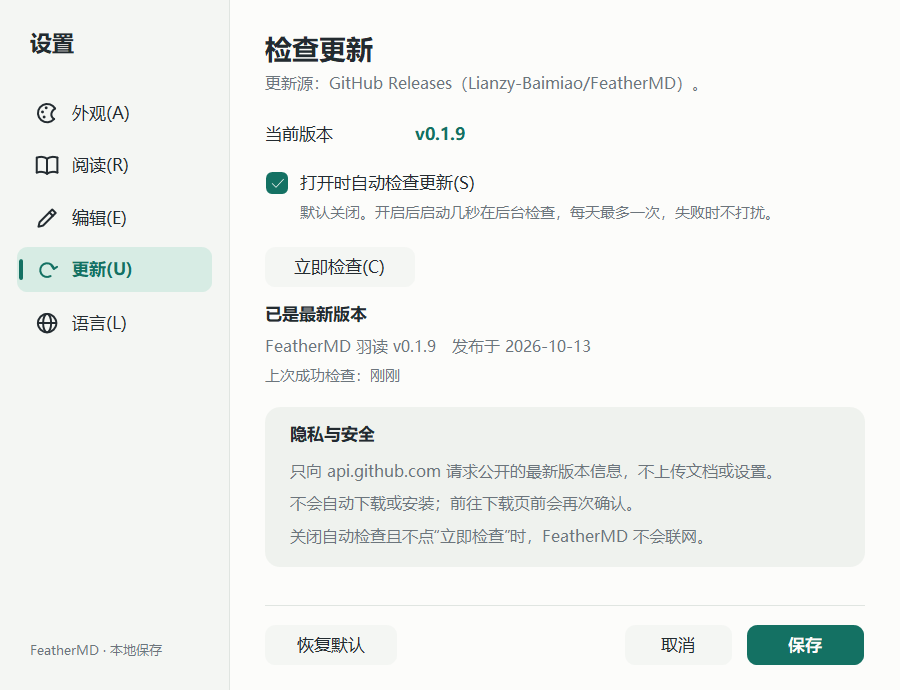
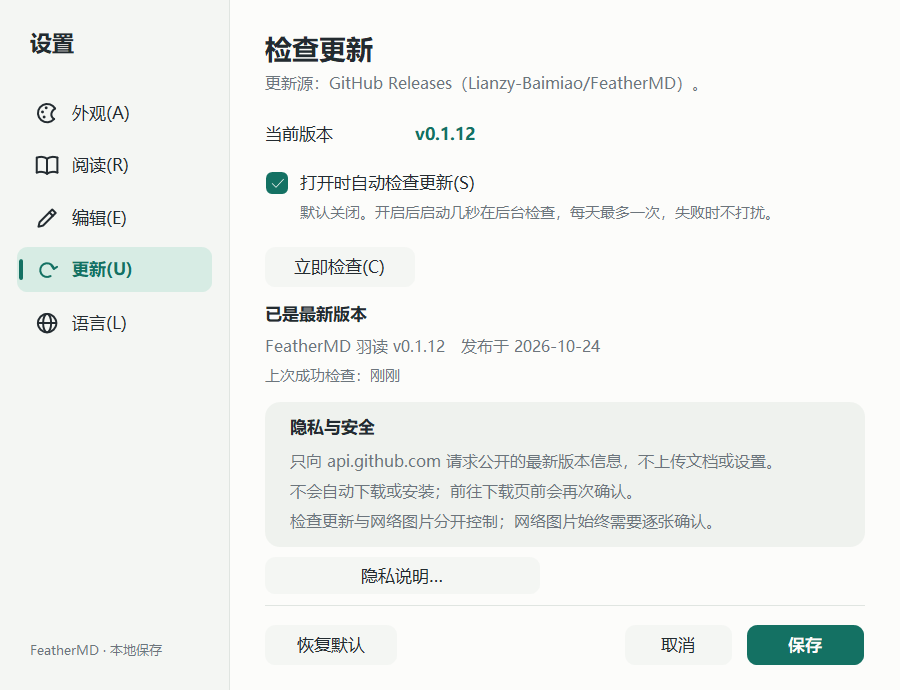
fix: v0.1.12 space the privacy notice button on the Updates page
Settings -> Updates had the "Privacy notice..." button touching the privacy
card above it and the rule above the footer, in every language and in the
Store edition (also live as Store 1.0.10.0). Both editions now build the card
from one list of notes, size it to its lines and keep 8 px around the button;
the Store card no longer leaves a gap between its two notes. A unit test keeps
the card under the last-check line and the button clear of card and rule.

Version 0.1.12, Store package 1.0.12.0 (1.0.11.0 was validated but never
uploaded). About and Updates screenshots are recaptured from this build.

diff --git a/src/ui/preferences.rs b/src/ui/preferences.rs
@@ -55,6 +55,34 @@ const HEIGHT: i32 = 552;
 const NAV_WIDTH: i32 = 184;
 /// Content column origin.
 const X0: i32 = 212;
+/// The rule above the footer buttons.
+const FOOTER_RULE: i32 = 484;
+/// Updates page: the privacy card starts here, below the last-check line (which ends
+/// at 312), and the privacy notice button follows it with this gap above (and at
+/// least as much below, before the footer rule).
+const PRIVACY_TOP: i32 = 322;
+const PRIVACY_GAP: i32 = 8;
+/// Top and height of the privacy card holding a title and `lines` notes: 10 px
+/// padding, a 24 px title, 22 px notes 24 px apart from 4 px below it, 8 px below
+/// the last.
+const fn privacy_card(lines: i32) -> (i32, i32) {
+    (PRIVACY_TOP, 10 + 24 + 4 + (lines - 1) * 24 + 22 + 8)
+}
+/// The notes in this edition's privacy card on the Updates page.
+fn privacy_notes() -> Vec<&'static str> {
+    if distribution::store() {
+        vec![
+            tr("不会检查 GitHub 版本，也不会下载绿色版替换此安装。"),
+            tr("网络图片仍需逐张确认；不会上传文档或设置。"),
+        ]
+    } else {
+        vec![
+            tr("只向 api.github.com 请求公开的最新版本信息，不上传文档或设置。"),
+            tr("不会自动下载或安装；前往下载页前会再次确认。"),
+            tr("检查更新与网络图片分开控制；网络图片始终需要逐张确认。"),
+        ]
+    }
+}
 const PAGES: [(&str, usize); 5] = [
     (key!("外观(&A)"), smooth::PALETTE),
     (key!("阅读(&R)"), smooth::BOOK),
@@ -458,24 +486,6 @@ impl Prefs {
                 (page, [X0, 200, 480, 22]),
                 NOTE,
             );
-            self.label(
-                tr("隐私与安全"),
-                1245,
-                (page, [X0 + 20, 338, 440, 24]),
-                Look(14, true, Tone::Info),
-            );
-            self.label(
-                tr("不会检查 GitHub 版本，也不会下载绿色版替换此安装。"),
-                1246,
-                (page, [X0 + 20, 368, 440, 40]),
-                Look(13, false, Tone::InfoMuted),
-            );
-            self.label(
-                tr("网络图片仍需逐张确认；不会上传文档或设置。"),
-                1247,
-                (page, [X0 + 20, 410, 440, 40]),
-                Look(13, false, Tone::InfoMuted),
-            );
         } else {
             // Updates.
             let page = Some(3);
@@ -537,29 +547,30 @@ impl Prefs {
                 (page, [X0, 292, 480, 20]),
                 Look(12, false, Tone::Muted),
             );
-            self.label(
-                tr("隐私与安全"),
-                1245,
-                (page, [X0 + 20, 338, 440, 24]),
-                Look(14, true, Tone::Info),
-            );
-            for (i, text) in [
-                tr("只向 api.github.com 请求公开的最新版本信息，不上传文档或设置。"),
-                tr("不会自动下载或安装；前往下载页前会再次确认。"),
-                tr("检查更新与网络图片分开控制；网络图片始终需要逐张确认。"),
-            ]
-            .into_iter()
-            .enumerate()
-            {
-                self.label(
-                    text,
-                    1246 + i,
-                    (page, [X0 + 20, 368 + i as i32 * 26, 440, 22]),
-                    Look(13, false, Tone::InfoMuted),
-                );
-            }
         }
-        self.button(tr("隐私说明…"), PRIVACY, (Some(3), [X0, 454, 220, 30]));
+        // Both editions: the privacy card, then the full notice below it.
+        let page = Some(3);
+        let notes = privacy_notes();
+        let (top, height) = privacy_card(notes.len() as i32);
+        self.label(
+            tr("隐私与安全"),
+            1245,
+            (page, [X0 + 20, top + 10, 440, 24]),
+            Look(14, true, Tone::Info),
+        );
+        for (i, text) in notes.into_iter().enumerate() {
+            self.label(
+                text,
+                1246 + i,
+                (page, [X0 + 20, top + 38 + i as i32 * 24, 440, 22]),
+                Look(13, false, Tone::InfoMuted),
+            );
+        }
+        self.button(
+            tr("隐私说明…"),
+            PRIVACY,
+            (page, [X0, top + height + PRIVACY_GAP, 220, 30]),
+        );
 
         // Interface language.
         let page = Some(4);
@@ -1076,7 +1087,7 @@ impl Prefs {
             },
             p.edge,
         );
-        Self::fill(dc, &self.rect(X0, 484, WIDTH - X0 - 28, 1), p.edge);
+        Self::fill(dc, &self.rect(X0, FOOTER_RULE, WIDTH - X0 - 28, 1), p.edge);
         match self.page {
             1 => {
                 chrome::chrome_round(dc, self.rect(X0, 196, 480, 100), p.panel, self.s(14));
@@ -1106,7 +1117,10 @@ impl Prefs {
                 }
             }
             2 => chrome::chrome_round(dc, self.rect(X0, 222, 480, 140), p.code, self.s(12)),
-            3 => chrome::chrome_round(dc, self.rect(X0, 326, 480, 128), p.code, self.s(12)),
+            3 => {
+                let (top, height) = privacy_card(privacy_notes().len() as i32);
+                chrome::chrome_round(dc, self.rect(X0, top, 480, height), p.code, self.s(12));
+            }
             4 => chrome::chrome_round(dc, self.rect(X0, 182, 480, 132), p.code, self.s(12)),
             _ => {}
         }
@@ -2156,5 +2170,27 @@ mod tests {
         }
         assert_eq!(std::mem::offset_of!(EmptyDialog, menu), 18);
         assert_eq!(PAGES.len(), NAV.len());
+    }
+    #[test]
+    fn privacy_notice_button_clears_its_card_and_the_footer_rule() {
+        // Store edition: two notes; portable: three. v0.1.11 had the button touch
+        // both the card and the rule.
+        for lines in [2, 3] {
+            let (top, height) = privacy_card(lines);
+            assert!(
+                top >= 312 + PRIVACY_GAP,
+                "{lines} notes: card under the last-check line"
+            );
+            let last_note = top + 38 + (lines - 1) * 24 + 22;
+            assert!(
+                last_note <= top + height,
+                "{lines} notes: text inside the card"
+            );
+            let button = top + height + PRIVACY_GAP;
+            assert!(
+                button + 30 + PRIVACY_GAP <= FOOTER_RULE,
+                "{lines} notes: button above the rule"
+            );
+        }
     }
 }

diff --git a/docs/STORE-RELEASE.md b/docs/STORE-RELEASE.md
@@ -5,8 +5,11 @@ MSIX) passed certification and is published. The public display catalog lists
 `ice.FeatherMD_1.0.10.0_x64__rz8m2sa64m4em`, free, publisher 白描ice, released
 2026-10-20 02:58 UTC; the Store page answers HTTP 200. The publication step itself
 was not recorded by this tooling; the catalog is the evidence. The next package is
-**1.0.11.0** (Cargo 0.1.11: table cells select by character), built and validated
-by the disposable workflows below and uploaded as a new submission. Never reuse an
+**1.0.12.0** (Cargo 0.1.12: table cells select by character from 0.1.11, and the
+Updates-page privacy button no longer touching the card and footer rule), built and
+validated by the disposable workflows below and uploaded as a new submission. A
+1.0.11.0 candidate passed WACK (run 40044912773) and lifecycle (run 40044915701) but
+was never uploaded, because the button layout defect was found first. Never reuse an
 uploaded version. Do not reuse LiteView's identity or ratings. See PROGRESS.md for
 exact evidence and limitations.
 
@@ -65,8 +68,8 @@ The packer verifies syntax and the explicit attestation, **not the account itsel
 The Store signs accepted packages for distribution. GitHub portable EXEs remain
 unsigned unless separately signed with a trusted code-signing service/certificate.
 
-MSIX versions: 1.0.10.0 was the first upload (Cargo 0.1.10); 1.0.11.0 carries
-Cargo 0.1.11. Increment the third component for each new candidate/upload,
+MSIX versions: 1.0.10.0 was the first upload (Cargo 0.1.10); 1.0.12.0 carries
+Cargo 0.1.12 (1.0.11.0 was built but never uploaded). Increment the third component for each new candidate/upload,
 independent of Cargo's version: a replacement candidate for the same Cargo version
 still takes the next number. Components are <=65535, the first is nonzero and the
 fourth stays 0. Never overwrite/reuse an uploaded version.
@@ -164,7 +167,7 @@ runs 39045802702 and 39045655691. They explicitly do not claim completed Windows
 
 ## Remaining release gates
 
-- 1.0.10.0 passed certification and is live. For 1.0.11.0, upload the frozen
+- 1.0.10.0 passed certification and is live. For 1.0.12.0, upload the frozen
   candidate as a new submission and update "What's new"; keep the listing, pricing,
   markets and age rating unless the owner asks otherwise. Confirm the publication
   timing with the owner when the submission is made. If certification rejects it,
@@ -178,7 +181,7 @@ runs 39045802702 and 39045655691. They explicitly do not claim completed Windows
 - Verify final Store listing, age rating, target markets and delivered package
   after approval/publication. Submission evidence is in
   `test-artifacts/feathermd-submitted-20261018.txt` and the matching `.jpg`.
-- Policies were rechecked on 2026-10-24 for 1.0.11.0: version 7.20 (published
+- Policies were rechecked on 2026-10-24 for this update: version 7.20 (published
   2026-09-15, in effect from 2026-10-22) changes XBOX branding and game rules,
   age-rating accuracy (11.11) and game-mod UGC moderation (11.12). Nothing new
   applies to this update, and the content behind the age rating is unchanged.

diff --git a/docs/PROGRESS.md b/docs/PROGRESS.md
@@ -1,5 +1,13 @@
 # Progress / continuation notes
 
+## 2026-10-24 — v0.1.12 release candidate: privacy button spacing, Store 1.0.12.0
+
+- 用户：“都更新，商店也更新”。按此在副屏重新生成截图时发现：设置 → 更新页的“隐私说明…”按钮上贴隐私卡片、下贴页脚横线（像素测量 0 px 间距），四种语言与商店版（线上 1.0.10.0 同样）都有；商店版两行说明之间还有一段空白。v0.1.11 / Store 1.0.10.0 均已带此问题发布。询问后用户选择“发 v0.1.12（推荐）”，商店上传与提交选择“你全权操作，不用和我确认”。
+- 修复（`src/ui/preferences.rs`）：两种版本的隐私卡片标题、说明与按钮由同一处生成（`privacy_notes()`），卡片高度按行数计算（`privacy_card`），从 322 开始、说明行距 24；按钮上方与页脚横线之间各至少 8 px（`PRIVACY_GAP`，横线 `FOOTER_RULE` = 484）。新增单元测试检查两种版本的卡片位置、文字在卡片内、按钮不碰卡片与横线。
+- 验证：两种配置 fmt、strict Clippy、**112 / 114** 项测试、17 项 Python 打包测试、release 与测试替身通过。副屏 `-SecondaryMonitor`（120 DPI）：update 浅色 / 深色、i18n（四种语言 105 个视图无截断、8 次实时切换，GDI 28→28、USER 16→16）、store（8 个商店场景）均 PASS、0 违规；实图检查卡片、按钮与横线间距正常。
+- 截图：用 0.1.12 候选构建在副屏重截 About 浅 / 深与繁中 / 英 / 日（版本徽章 v0.1.12，旧图里多余的键盘焦点框也没有了）和 `settings-update.png`（新按钮与更正后的说明）。其余设置 / 阅读截图与新截图的差异只有快捷键下划线或焦点框，内容未变，保留原图；`settings-reading.png` 新截图是皮肤预览且勾选了显示图片，不代表默认状态，保留原图。
+- 商店：1.0.10.0 已于 2026-10-20 上线（公开目录与商店页确认）。1.0.11.0 候选的 WACK（40044912773）与生命周期（40044915701）通过但未上传；改为 **1.0.12.0** 对应 Cargo 0.1.12。商店提交与发布结果另记。
+
 ## v0.1.11 publication record — 2026-10-24
 
 - 用户：“跑吧，不用改了，跑完了没问题直接提交发布”。已发布并设为 Latest：https://github.com/Lianzy-Baimiao/FeatherMD/releases/tag/v0.1.11 （2026-10-24T00:08:31Z，北京时间 08:08），标题“FeatherMD 羽读 v0.1.11 · 表格文字按字符选择”，非草稿、非预发布；说明见 `dist/RELEASE-v0.1.11.md`。

diff --git a/tasks/todo.md b/tasks/todo.md
@@ -4,6 +4,13 @@
 最后修改人：lianzy
 日期：2026-10-12
 
+## v0.1.12：隐私按钮间距与商店更新（2026-10-24）
+
+- [x] 设置 → 更新页“隐私说明…”按钮不再紧贴卡片与页脚横线（两种版本，单元测试防回归）；副屏 update / i18n / store 通过并实图检查。
+- [x] 版本 0.1.12 / MSIX 1.0.12.0；About 与更新页截图按新构建重截。
+- [ ] 提交、推送、CI、打标签发布 v0.1.12 并核对附件。
+- [ ] 商店：WACK 与生命周期验证 1.0.12.0，冻结候选，在 Partner Center 新建提交上传并提交认证（用户授权全权操作）。
+
 ## v0.1.11：表格单元格按字符选择（2026-10-24）
 
 - [x] 预览中表格单元格的文字按字符拖选、双击选词、Shift+单击、全选；命中不跨列，跨单元格复制制表符、跨行复制 CRLF，整行仍复制原单元格。
@@ -12,7 +19,7 @@
 - [x] 用户许可后在副屏运行 table-smoke（浅色，开发构建与 0.1.11 候选各一次 PASS，0 违规）；实图检查选区、横线与行内代码；新增 docs/table-selection.png。
 - [x] 版本 0.1.11；CHANGELOG 收录 v0.1.10 之后 main 上的隐私说明与更新页措辞更正；README 体积与联网说明更正。
 - [x] 用户要求“直接提交发布”：提交 75df275 推送 main，main / tag CI（40042221544 / 40042932590）通过后发布 [v0.1.11](https://github.com/Lianzy-Baimiao/FeatherMD/releases/tag/v0.1.11)；三个附件重新下载后哈希一致。
-- [ ] 后续：About 截图仍显示 v0.1.10、settings-update.png 未含“隐私说明…”，需另行获准运行 about / settings smoke 后重新生成；Store 提交的 1.0.10.0 候选不含此修改。
+- [x] 后续：About 截图与 settings-update.png 已在 v0.1.12 按新构建重截；商店更新见 v0.1.12。
 
 ## Microsoft Store 适配（2026-10-17，未发布）
 

diff --git a/README.ja.md b/README.ja.md
@@ -42,7 +42,7 @@
 
 Markdown を開くために、まずブラウザーを起動する必要はありません。
 
-FeatherMD は Win32 と GDI/GDI+ で動きます。Electron、WebView、JavaScript、テレメトリはなく、既定でオフラインです。GitHub Releases には更新確認を有効にするか手動で確認したときだけアクセスし、Web の画像は個別にクリックして確認した場合だけ取得します。v0.1.11 の Windows x64 EXE は約 **1.07 MiB**（4 つの表示言語、コードの色分け、ローカル画像のデコードを含む）で、.NET や VC++ ランタイムなどのインストールは不要です。
+FeatherMD は Win32 と GDI/GDI+ で動きます。Electron、WebView、JavaScript、テレメトリはなく、既定でオフラインです。GitHub Releases には更新確認を有効にするか手動で確認したときだけアクセスし、Web の画像は個別にクリックして確認した場合だけ取得します。v0.1.12 の Windows x64 EXE は約 **1.07 MiB**（4 つの表示言語、コードの色分け、ローカル画像のデコードを含む）で、.NET や VC++ ランタイムなどのインストールは不要です。
 
 **大きなファイルも、全体を読み込んでから表示するわけではありません。** 一度に読むのは近くの 128 KiB だけで、読み込みと検索はバックグラウンドで行い、描画するのは見えている行だけです。ファイル全体の大きさで最初の画面に必要なメモリが決まることはありません。
 

diff --git a/README.en.md b/README.en.md
@@ -42,7 +42,7 @@ The other screenshots in this README show the Simplified Chinese interface; ever
 
 Opening a Markdown file should not start a browser first.
 
-FeatherMD uses Win32 and GDI/GDI+: no Electron, WebView, JavaScript or telemetry, and it is offline by default. It contacts GitHub Releases only when you enable or manually run update checks; web images load only after you click and confirm each URL. The v0.1.11 Windows x64 EXE is about **1.07 MiB** (four interface languages, code highlighting and local image decoding included) and needs no .NET, VC++ runtime or other third-party runtime.
+FeatherMD uses Win32 and GDI/GDI+: no Electron, WebView, JavaScript or telemetry, and it is offline by default. It contacts GitHub Releases only when you enable or manually run update checks; web images load only after you click and confirm each URL. The v0.1.12 Windows x64 EXE is about **1.07 MiB** (four interface languages, code highlighting and local image decoding included) and needs no .NET, VC++ runtime or other third-party runtime.
 
 **Large files are not loaded whole before they show.** Only the nearby 128 KiB is read at a time; reading and searching run in the background and only visible lines are drawn. The file's total size does not decide how much memory the first page needs.
 

diff --git a/README.zh-TW.md b/README.zh-TW.md
@@ -42,7 +42,7 @@
 
 開啟一份 Markdown，不應該先啟動一個瀏覽器。
 
-FeatherMD 使用 Win32 + GDI/GDI+，沒有 Electron、WebView、JavaScript 或遙測，預設不連網；更新檢查只在主動開啟或手動檢查時存取 GitHub Releases；網路圖片只有逐張點選並確認後才下載。v0.1.11 的 Windows x64 EXE 約 **1.07 MiB**（含四種介面語言、程式碼醒目提示與本機圖片解碼），無須安裝 .NET、VC++ 執行階段或其他第三方執行環境。
+FeatherMD 使用 Win32 + GDI/GDI+，沒有 Electron、WebView、JavaScript 或遙測，預設不連網；更新檢查只在主動開啟或手動檢查時存取 GitHub Releases；網路圖片只有逐張點選並確認後才下載。v0.1.12 的 Windows x64 EXE 約 **1.07 MiB**（含四種介面語言、程式碼醒目提示與本機圖片解碼），無須安裝 .NET、VC++ 執行階段或其他第三方執行環境。
 
 **大檔案不是先全部載入再顯示：** 每次只讀取附近 128 KiB，在背景讀取與搜尋，前景只繪製可見的行。檔案總長度不決定第一頁需要配置的記憶體。
 

diff --git a/README.md b/README.md
@@ -40,7 +40,7 @@
 
 打开一份 Markdown，不应该先启动一个浏览器。
 
-FeatherMD 使用 Win32 + GDI/GDI+，没有 Electron、WebView、JavaScript 或遥测，默认不联网；更新检查只在主动开启或手动检查时访问 GitHub Releases；网络图片只有逐张点击并确认后才下载。v0.1.11 的 Windows x64 EXE 约 **1.07 MiB**（含四种界面语言、代码高亮与本地图片解码），无需安装 .NET、VC++ 运行库或其他第三方运行时。
+FeatherMD 使用 Win32 + GDI/GDI+，没有 Electron、WebView、JavaScript 或遥测，默认不联网；更新检查只在主动开启或手动检查时访问 GitHub Releases；网络图片只有逐张点击并确认后才下载。v0.1.12 的 Windows x64 EXE 约 **1.07 MiB**（含四种界面语言、代码高亮与本地图片解码），无需安装 .NET、VC++ 运行库或其他第三方运行时。
 
 **大文件不是先全部载入再显示：** 每次只读取附近 128 KiB，后台读取与搜索，前台只绘制可见行。文件总长度不决定首屏需要分配的内存。
 

diff --git a/CHANGELOG.md b/CHANGELOG.md
@@ -1,5 +1,13 @@
 # Changelog
 
+## 0.1.12 — 2026-10-24
+
+### Fixed
+- Settings → Updates: the "Privacy notice…" button no longer touches the privacy card above it or the rule above the footer buttons; the card fits its lines, with 8 px around the button. In the Store edition the two notes no longer leave a gap between them.
+
+### Tests
+- A unit test keeps the privacy card below the last-check line, its text inside it and the button clear of both the card and the footer rule, for both editions.
+
 ## 0.1.11 — 2026-10-24
 
 ### Added
